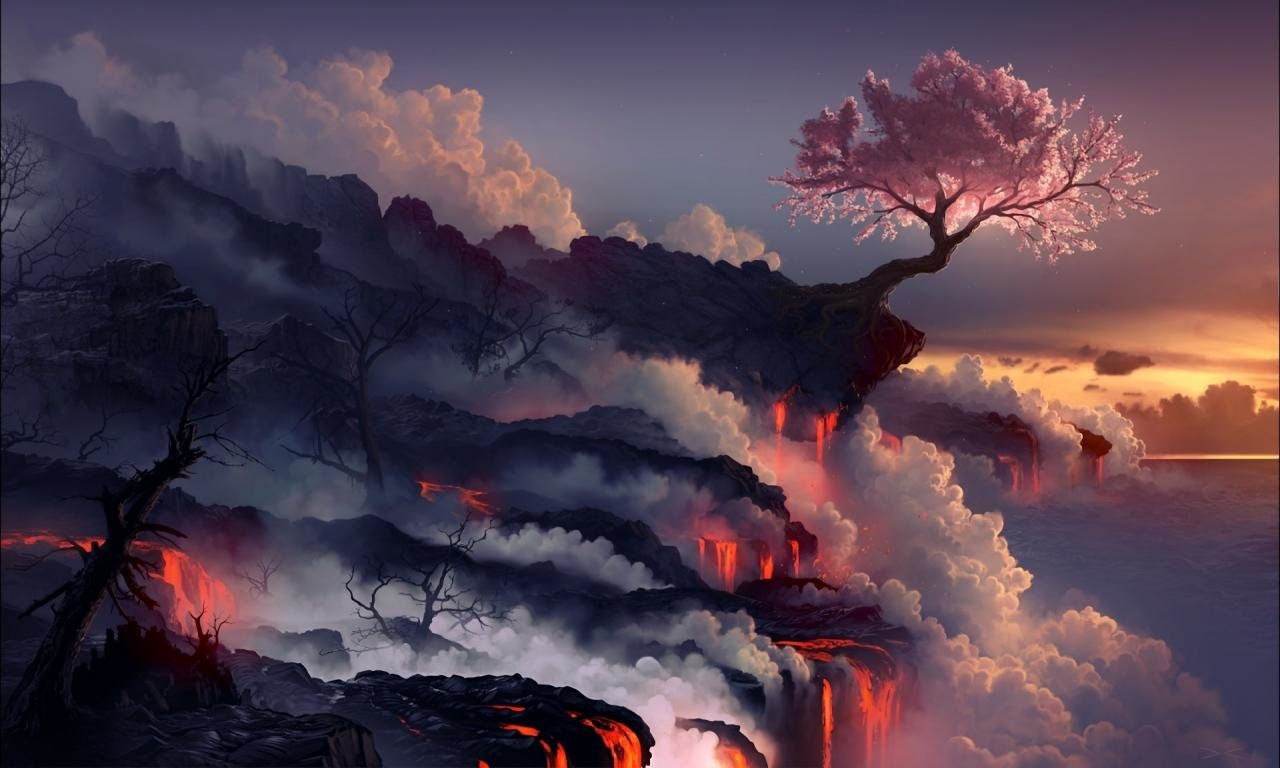
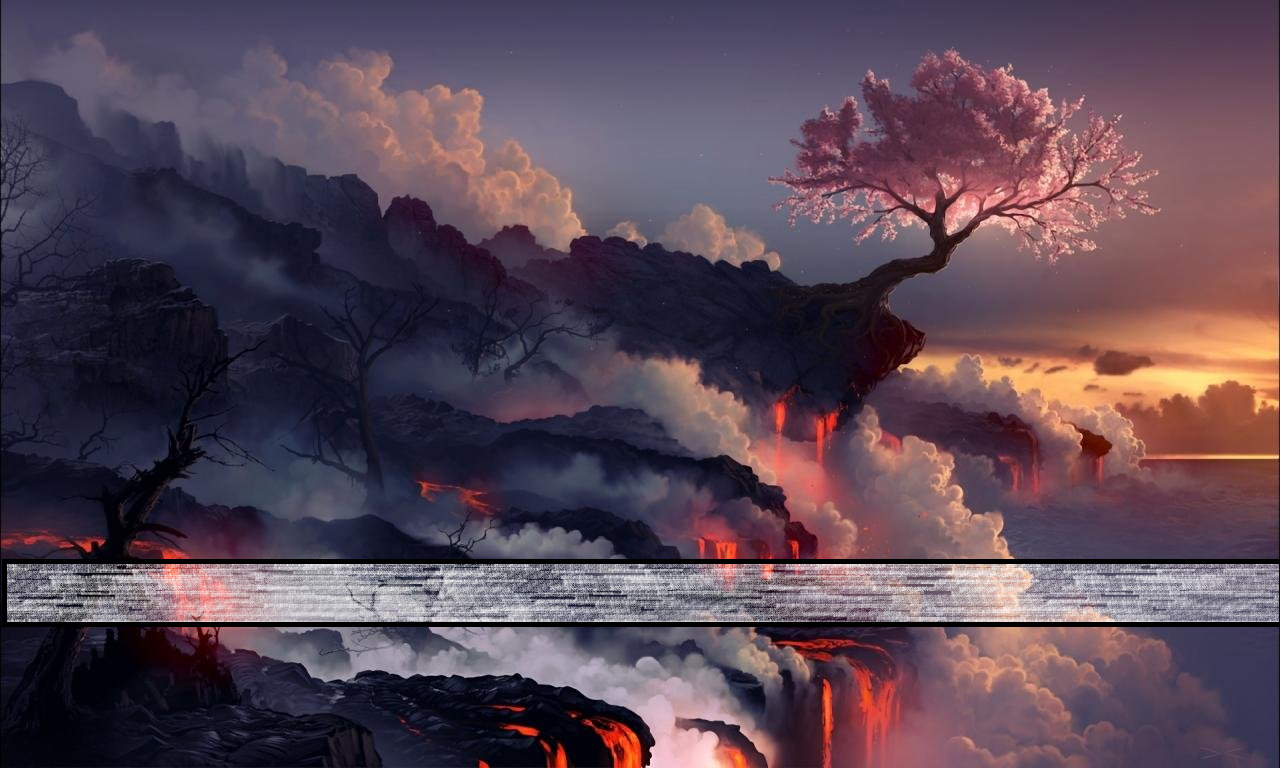
changes

Changed region(s): [[0.0, 0.7188, 1.0, 0.8438]]

diff --git a/main.py b/main.py
@@ -4,33 +4,70 @@ from random import randint
 pygame.init()  # inicjacja
 window = pygame.display.set_mode((1280, 720))
 
-class Player:
+
+class Physic:
+    def __init__(self, x, y, width, height,  acc, max_vel):
+        self.x_cord = x                                #wpółrzędna x
+        self.y_cord = y                                #współrzędna y
+        self.hor_velocity = 0                           #prędkość w poziomie
+        self.ver_velocity = 0                           #prędkośc w pionie
+        self.acc = acc                                  #przyśpiesznie
+        self.max_vel = max_vel                          #maksymalna prędkość
+        self.width = width  # szerokość
+        self.hight = height  # wysokość
+        self.previous_x = x
+        self.previous_y = y
+        self.hitbox = pygame.Rect(self.x_cord, self.y_cord, self.width, self.hight)
+
+    def physic_tick(self, beams):
+        self.ver_velocity += 0.7
+        self.x_cord += self.hor_velocity
+        self.y_cord += self.ver_velocity
+        self.hitbox = pygame.Rect(self.x_cord, self.y_cord, self.width, self.hight) # odświeżanie hitboxów
+        for beam in beams:
+            if beam.hitbox.colliderect(self.hitbox):   #cofanie obiektu do miejsca z poprzedniej klatki
+                #self.x_cord = self.previous_x
+                self.y_cord = self.previous_y
+                self.ver_velocity = 0
+
+        self.previous_x = self.x_cord
+        self.previous_y = self.y_cord
+class Player(Physic):
     def __init__(self):
-        self.x_cord = 0                                 #wpółrzędna x
-        self.y_cord = 0                                 #współrzędna y
-        self.image = pygame.image.load("postać1.png")
-        self.width = self.image.get_width()                                 #szerokość
-        self.hight = self.image.get_height()                                  #wysokość
-        self.speed = 5                                  #prędkość postaci
-        self.hitbox = pygame.Rect(self.x_cord, self.y_cord, self.width, self.hight)
+        self.image = pygame.image.load("john.png")
+        width = self.image.get_width()                                 #szerokość
+        hight = self.image.get_height()                                  #wysokość
+        super().__init__(0, 450, width, hight,  0.5, 5)
 
 
-    def tick(self, keys):                                     #wykonuje się raz na powtórznie pętli
-        if keys[pygame.K_w]:
-            self.y_cord -= self.speed
-        if keys[pygame.K_a]:
-            self.x_cord -= self.speed
-        if keys[pygame.K_s]:
-            self.y_cord += self.speed
-        if keys[pygame.K_d]:
-            self.x_cord += self.speed
 
-        self.hitbox = pygame.Rect(self.x_cord, self.y_cord, self.width, self.hight)
+    def tick(self, keys, beams):                                   #wykonuje się raz na powtórznie pętli
+        self.physic_tick(beams)
+        if keys[pygame.K_a] and self.hor_velocity > self.max_vel * -1:
+            self.hor_velocity -= self.acc
+        if keys[pygame.K_d] and self.hor_velocity < self.max_vel:
+            self.hor_velocity += self.acc
+        if not (keys[pygame.K_d] or keys[pygame.K_a]):
+            if self.hor_velocity > 0:
+                self.hor_velocity -= self.acc
+            elif self.hor_velocity < 0:
+                self.hor_velocity += self.acc
 
     def draw(self):
         window.blit(self.image,(self.x_cord, self.y_cord))
 
-class Cash:
+
+class Beam:
+    def __init__(self, x, y, width, height):
+        self.x_cord = x
+        self.y_cord = y
+        self.width = width
+        self.height = height
+        self.hitbox = pygame.Rect(self.x_cord, self.y_cord, self.width, self.height)
+    def draw(self, window):
+        pygame.draw.rect(window, (128,128,128), self.hitbox)
+
+'''class Cash:
     def __init__(self):
         self.x_cord = randint(0,1280)
         self.y_cord = randint(0,720)
@@ -43,7 +80,7 @@ class Cash:
         self.hitbox = pygame.Rect(self.x_cord, self.y_cord, self.width, self.hight)
 
     def draw(self):
-        window.blit(self.image,(self.x_cord,self.y_cord))
+        window.blit(self.image,(self.x_cord,self.y_cord))'''
 
 
 def main():
@@ -51,9 +88,10 @@ def main():
     run = True
     player = Player()
     clock = 0
-    score = 0
-    banknotes = []
     background = pygame.image.load("tło.png")
+    beams =[
+        Beam(7,563,1200,60)
+    ]
     while run:
         clock += pygame.time.Clock().tick(60)/1000        #maks 60 fps
         for event in pygame.event.get():
@@ -61,29 +99,17 @@ def main():
                 run = False
         keys = pygame.key.get_pressed()  # Tworzymy ruch poprzez strzałki na klawiaturze
 
-        if clock >= 2:
-            clock = 0
-            banknotes.append(Cash())
+        player.tick(keys, beams)
 
 
-        player.tick(keys)
-        for banknote in banknotes:
-            banknote.tick()
 
-
-        for banknote in banknotes:
-            if player.hitbox.colliderect(banknote.hitbox):
-                banknotes.remove(banknote)
-                score += 1
-
-
-        window.blit(background, (8, 0))         # kolor tła
+        window.blit(background, (0, 0))         # kolor tła
         player.draw()
-        for banknote in banknotes:
-            banknote.draw()
+        for beam in beams:
+            beam.draw(window)
+
         pygame.display.update()  # odświeżamy obraz
 
-    print(score)
 
 
 
